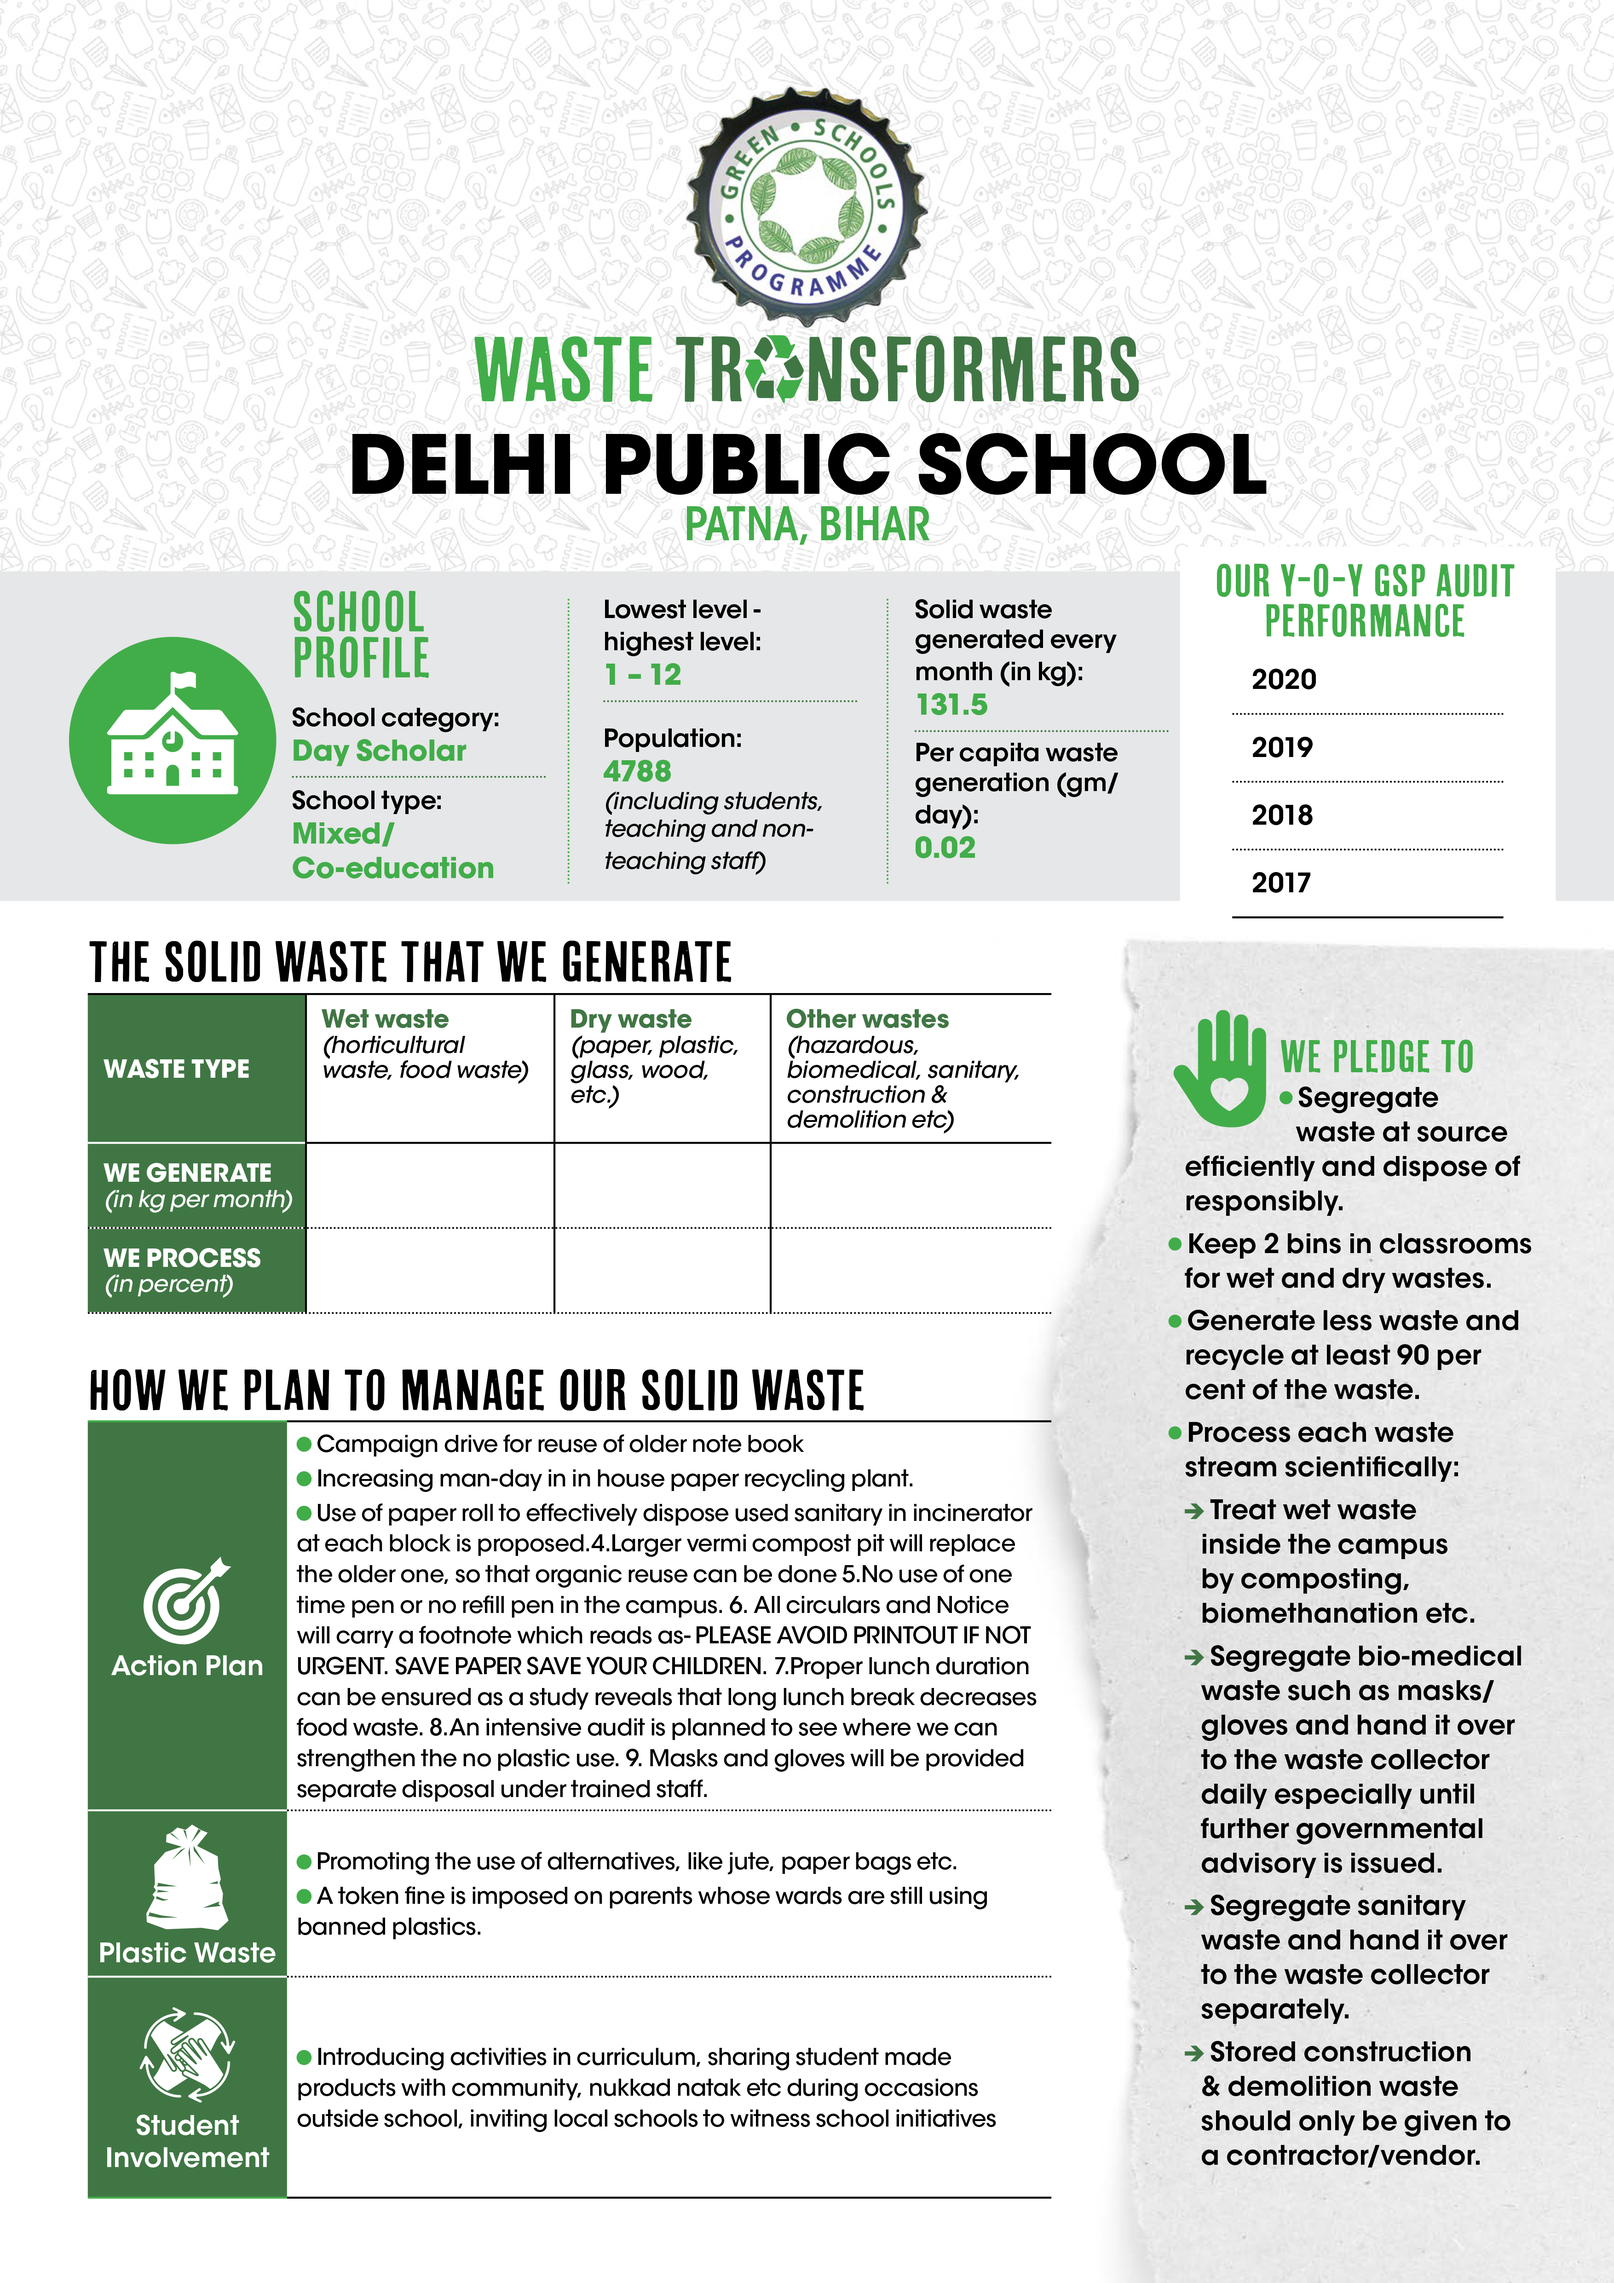
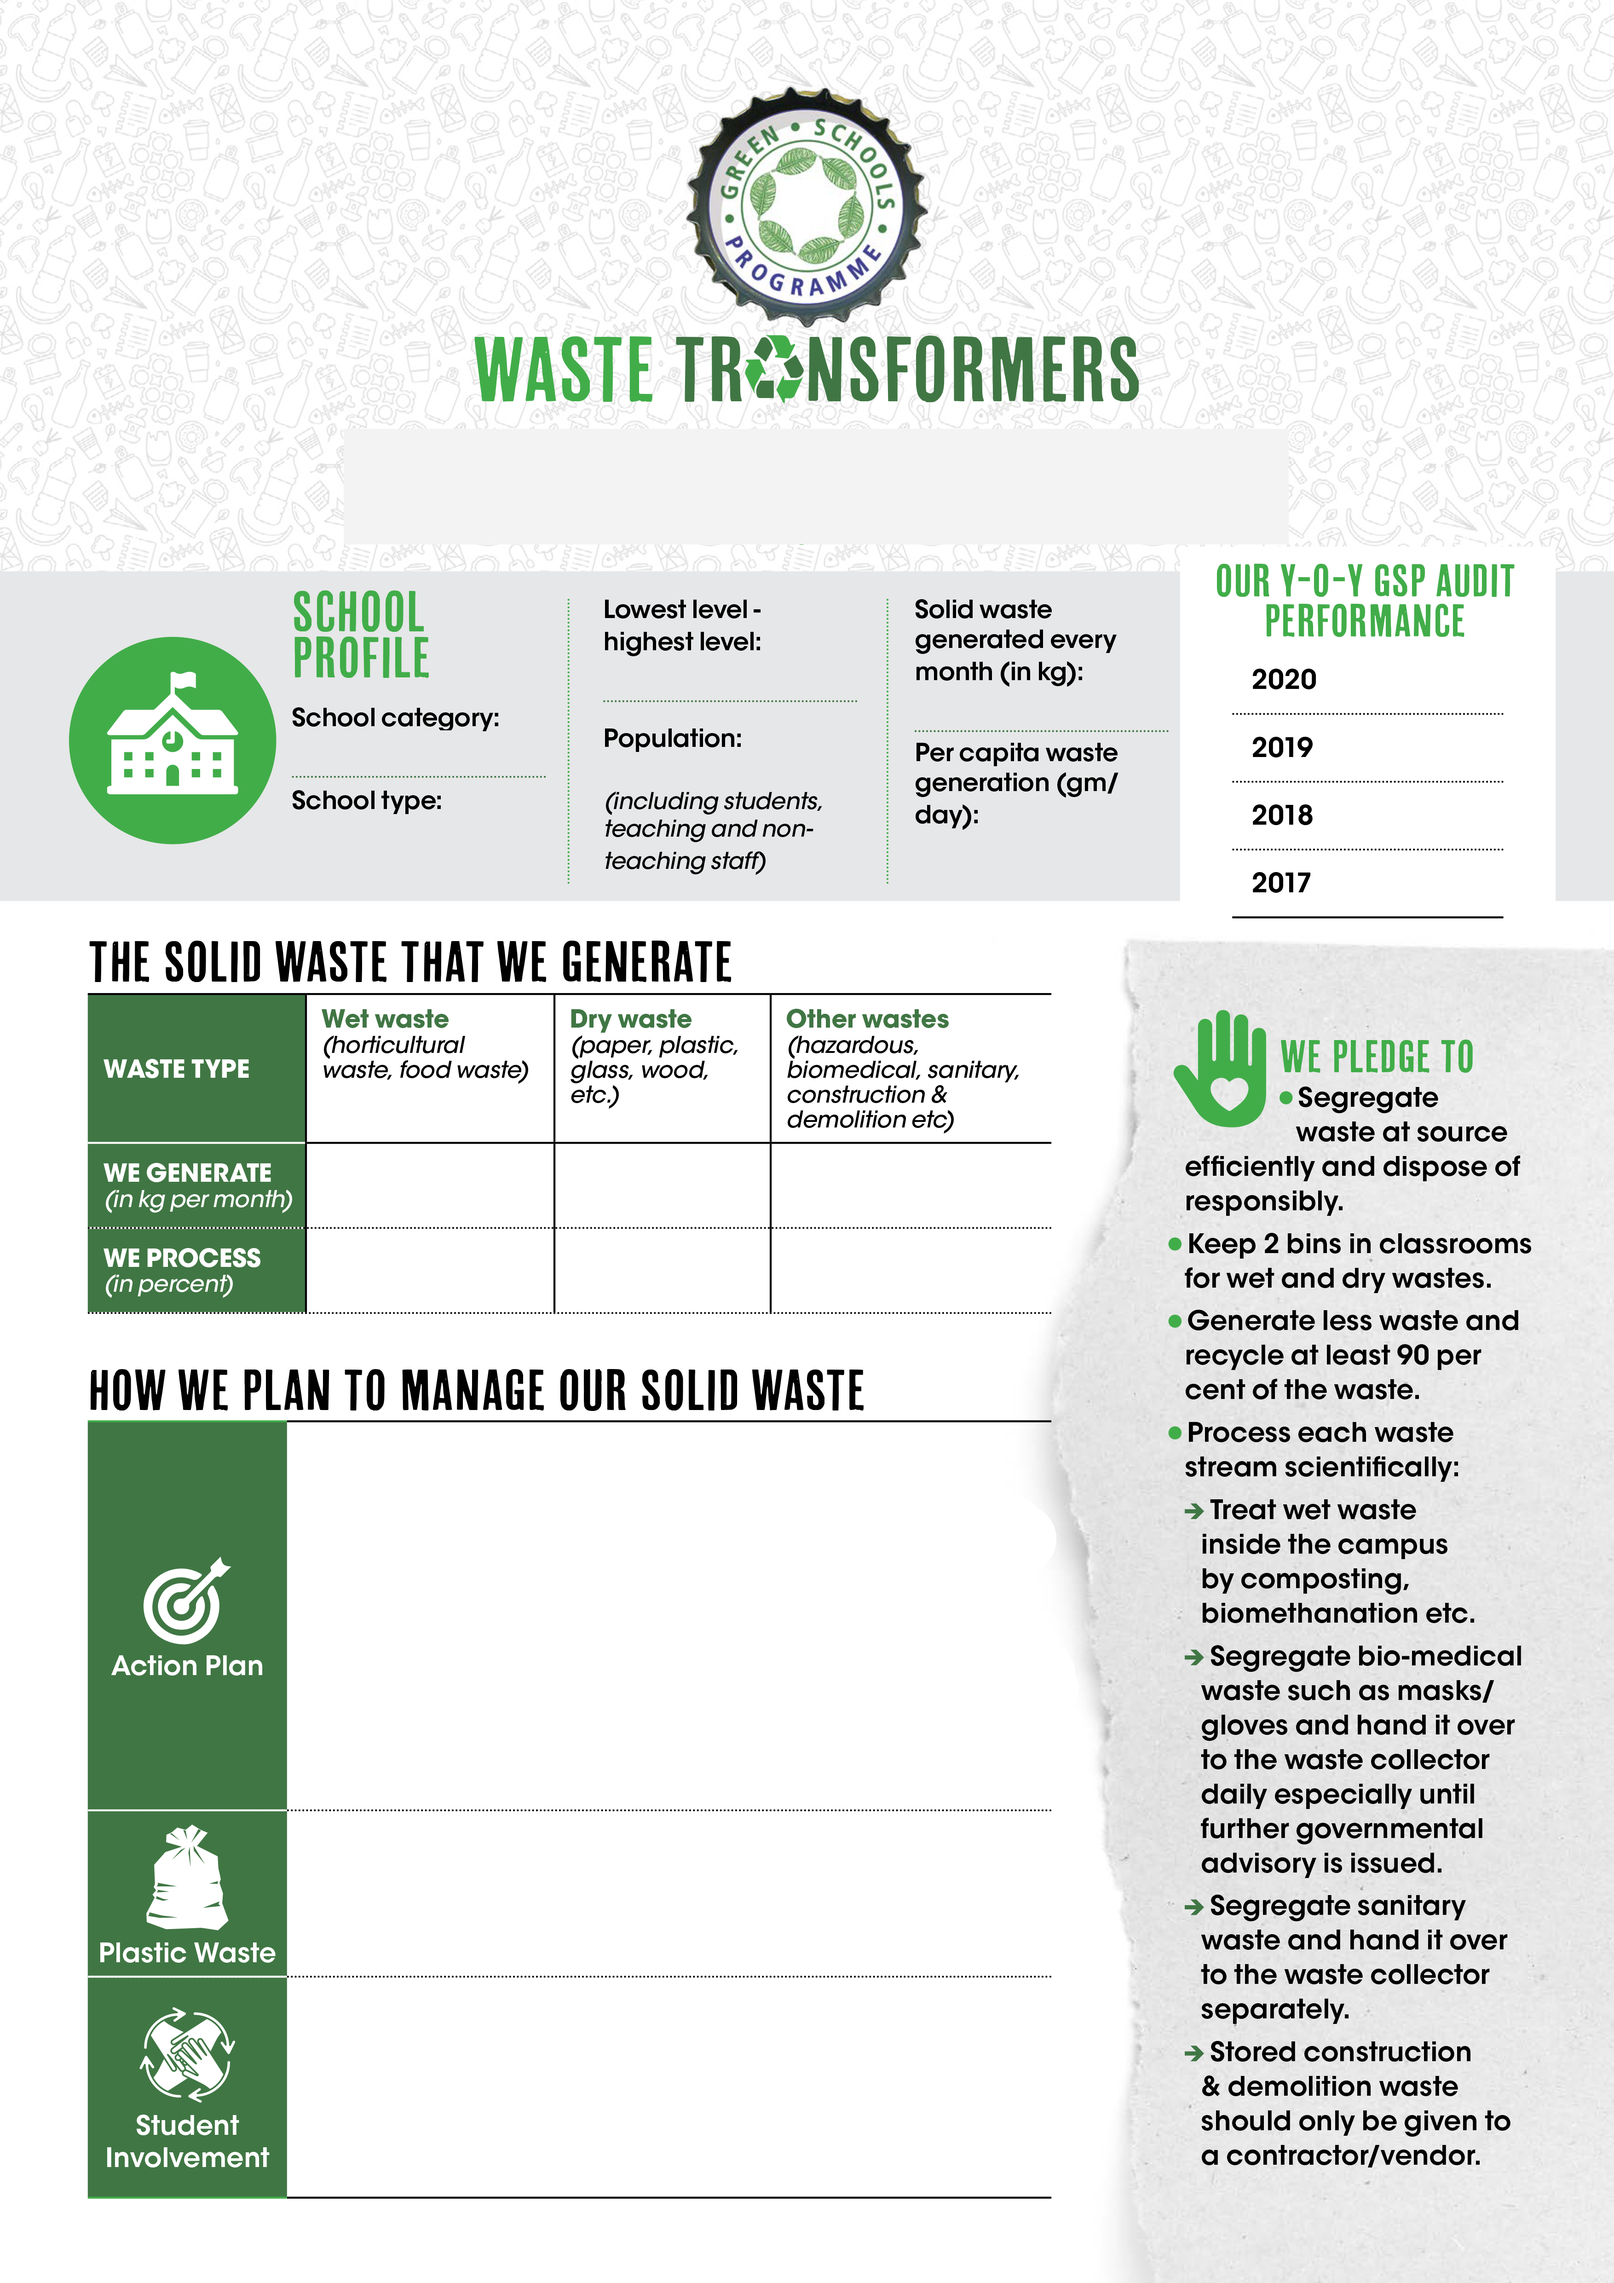
df

diff --git a/20/application/views/digital-poster.php b/20/application/views/digital-poster.php
@@ -1,0 +1,101 @@
+<!DOCTYPE html>
+<html>
+<head>
+<meta http-equiv="Content-Type" content="text/html; charset=UTF-8">
+  <title><?php echo $title; ?></title>
+    </head>
+    <body>
+  <?php
+  if (!empty($title)) {
+    $i=0;
+    foreach($teachers as $teacher) {
+
+    if ($teacher->school !="") {
+        echo "<div class='container'>
+        <div class='image'><img src='assets/img/images/poster.png' width='500' height='707'></div>";
+
+    echo "<div class='sc_name'>" . strtoupper($teacher->school) ."</div>&nbsp;";
+    echo "<div class='sc_state'>" . strtoupper($teacher->district) .",". strtoupper($teacher->state) ."</div>&nbsp;";
+    echo "<div class='sc_sc'>" . strtoupper($teacher->sc) ."</div>&nbsp;";
+    echo "<div class='sc_st'>" . strtoupper($teacher->st) ."</div>&nbsp;";
+    echo "<div class='sc_ll_hl'>" . strtoupper($teacher->ll) ." - ". strtoupper($teacher->hl) ."</div>&nbsp;";
+    echo "<div class='sc_p'>" . strtoupper($teacher->tp) ."</div>&nbsp;";
+    echo "<div class='sc_sw'>" . strtoupper($teacher->tswg) ."</div>&nbsp;";
+    echo "<div class='sc_pcwg'>" . strtoupper($teacher->pc) ."</div>&nbsp;";
+    echo "<div class='sc_tbwg'>" . strtoupper($teacher->tbwg) ."</div>&nbsp;";
+    echo "<div class='sc_pww'>" . strtoupper($teacher->pww) ."</div>&nbsp;";
+    echo "<div class='sc_tdwg'>" . strtoupper($teacher->tdwg) ."</div>&nbsp;";
+    echo "<div class='sc_pdw'>" . strtoupper($teacher->pdw) ."</div>&nbsp;";
+    echo "<div class='sc_towg'>" . strtoupper($teacher->towg) ."</div>&nbsp;";
+    echo "<div class='sc_pow'>" . strtoupper($teacher->pow) ."</div>&nbsp;";
+    echo "<div class='sc_ap'><p>" . html_entity_decode($teacher->ap) ."</p></div>&nbsp;";
+    echo "<div class='sc_pw'><p>" . html_entity_decode($teacher->pw) ."</p></div>&nbsp;";
+    echo "<div class='sc_si'><p>" . html_entity_decode($teacher->si) ."</p></div>&nbsp;";
+
+
+  echo "<div class='principal'>" . strtoupper($teacher->school_name) ."</div>&nbsp;";
+    $length = strlen($teacher->school_name);
+  if($length > 61) {
+  echo  "<div class='school_name1'>". strtoupper($teacher->name_of_participant)."</div>";
+  
+  }else{
+    echo "<div class='school_name'>". strtoupper($teacher->name_of_participant). "</div>";
+     
+  }  echo "<div class='date'>"  . strtoupper($teacher->state). "</div> ";
+  //       echo "<div class='certificateno'>Certificate No : "."GSP".$teacher->school." </div>
+  //  </div> ";
+    }
+    }
+}
+
+  ?>
+
+    </body>
+</html>
+
+
+<style type="text/css">
+          @font-face {
+  font-family: myFirstFont;
+  src: url(18/assets/scriptina/mtcorsva.ttf);
+}
+
+body{
+  font-family: mtcorsva; font-size: 20px;
+} 
+
+
+.sc_sc{position:absolute;text-align:center;top:208px; margin-left: 50px;font-size: 9px;color:#41ad49;}
+.sc_st{position:absolute;text-align:center;top:233px; margin-left: 50px;font-size: 9px;color:#41ad49;}
+.sc_ll_hl{position:absolute;text-align:center;top:183px; margin-left: 147px;font-size: 10px;color:#41ad49;}
+.sc_p{position:absolute;text-align:center;top:212px; margin-left: 147px;font-size: 10px;color:#41ad49;}
+.sc_sw{position:absolute;text-align:center;top:192px; margin-left: 243px;font-size: 9px;color:#41ad49;}
+.sc_pcwg{position:absolute;text-align:center;top:237px; margin-left: 243px;font-size: 9px;color:#41ad49;}
+.sc_name{position:absolute;text-align:center;top:110px; margin-left: 0px;font-weight:bold;width:100%;}
+.sc_state{position:absolute;text-align:center;top:135px; margin-left: 0px;font-size: 12px;color:#41ad49;width:100%;}
+.sc_tbwg{position:absolute;text-align:center;top:342px; margin-left: 83px;font-size: 9px;color:#41ad49;}
+.sc_pww{position:absolute;text-align:center;top:367px; margin-left: 83px;font-size: 9px;color:#41ad49;}
+.sc_tdwg{position:absolute;text-align:center;top:342px; margin-left: 150px;font-size: 9px;color:#41ad49;}
+.sc_pdw{position:absolute;text-align:center;top:367px; margin-left: 150px;font-size: 9px;color:#41ad49;}
+.sc_towg{position:absolute;text-align:center;top:342px; margin-left: 220px;font-size: 9px;color:#41ad49;}
+.sc_pow{position:absolute;text-align:center;top:367px; margin-left: 220px;font-size: 9px;color:#41ad49;}
+.sc_ap{position:absolute;text-align:left;top:423px; margin-left: 22px;width:270px;height:115px;font-size: 9px;}
+.sc_pw{position:absolute;text-align:left;top:543px; margin-left: 22px;width:270px;height:55px;font-size: 9px;}
+.sc_si{position:absolute;text-align:left;top:597px; margin-left: 22px;width:270px;height:55px;font-size: 9px;}
+
+
+
+
+
+
+.date{position:absolute; text-align: center; top:510px; margin-left: 480px;}
+.certificateno{ position:absolute; top:680px; left: 10px;}
+.principal{ position:relative; text-align: center; top:260px;}
+.school_name1{ position:relative; text-align: center; top:250px; font-size: 20px; margin-left: 25px;}
+.school_name{ position:relative; text-align: center; top:250px; margin-left: 25px;}
+.image{position:absolute; margin-left: -40px; margin-top: -20px;}
+</style>
+
+<style type="text/css">   
+    .page{ text-align:right; page-break-after:always;}
+</style> 

diff --git a/20/application/controllers/GetCertificate.php b/20/application/controllers/GetCertificate.php
@@ -9,7 +9,9 @@ class GetCertificate extends CI_Controller{
     public function __construct() {
         parent::__construct();
         $this->load->helper(array('form', 'security'));
-        $this->load->library('form_validation');        
+        $this->load->library('form_validation');   
+        $this->load->helper(array('download', 'common_helper', 'form'));
+     
     }
     
     /*
@@ -55,40 +57,44 @@ class GetCertificate extends CI_Controller{
     }
 
 
-    public function getPoster($argID){
-        ini_set('memory_limit', '-1');      
-        ini_set('max_execution_time', 300);   
+    public function getPoster($argsID){
+        // ini_set('memory_limit', '-1');      
+        // ini_set('max_execution_time', 300);   
            $data['title'] = 'Home';
-           $data['id'] = $argID;
-        $schoolId=getSchoolId($this->session->userdata('USER_ID'));
-        $phase2 = $this->db->select('schoolno')->from('poster')->where('schoolno',$schoolId)->get()->result();
+        //    $data['id'] = $argID;
+        // $schoolId=getSchoolId($this->session->userdata('USER_ID'));
+        $mobile=42;
+        $this->db->where("schoolno",$mobile);
+        $phase2=$this->db->select("*")->from("poster")->get()->result();
         
-        print_r($phase2);
-        
-        // $this->session->set_flashdata('data_name', 'The link to download the GSP Online Air Seminar April 2020 certificate is now closed.');
-        //     return redirect('GetCertificate');
 
-        if(!empty($dataCertificate)){
 
-        $data['teachers'] = $dataCertificate;
+        if(!empty($phase2)){
 
-        $data['title']="GSP Digital Certificates";
+        $data['teachers'] = $phase2;
+        // echo'<pre>';
+        // print_r($phase2);
+
+
+        $data['title']="GSP Poster";
         $this->load->library('dompdf_lib');
         ini_set('memory_limit', '-1');
        
-        $html = $this->load->view('digital-certificate-new', $data, true);
+        $html = $this->load->view('digital-poster', $data, true);
          $html = preg_replace('/>\s+</', "><", $html);
-
+       
         $this->dompdf->load_html($html);
         $this->dompdf->set_paper(array(0, 0, 380, 560), 'portrait');
         $this->dompdf->render();
         $this->dompdf->stream("Digital Certificate.pdf", array("Attachment" => false));
-		$this->db->where('id', $dataCertificate[0]->id);
-        $this->db->update('gsp_skill_building_camp', array('download_count'=>$dataCertificate[0]->download_count+1));
+		// $this->db->where('id', $dataCertificate[0]->id);
+        // $this->db->update('gsp_skill_building_camp', array('download_count'=>$dataCertificate[0]->download_count+1));
         }
         else{
             $this->session->set_flashdata('data_name', 'Your password is incorrect. Please try again. For any assistance, write to us at : support@greenschoolprogramme.org');
             return redirect('GetCertificate');
+
+            
         }
 
     }

diff --git a/20/application/views/digital-certificate-new.php b/20/application/views/digital-certificate-new.php
@@ -12,7 +12,7 @@
 
     if ($teacher->name_of_participant !="") {
         echo "<div class='container'>
-        <div class='image'><img src='assets/img/images/poster.png' width='500' height='707'></div>";
+        <div class='image'><img src='assets/img/images/Mandi_HP workshop_certificate-Mar 3-5.jpg' width='1000' height='700'></div>";
 
   echo "<div class='principal'>" . strtoupper($teacher->school_name) ."</div>&nbsp;";
     $length = strlen($teacher->school_name);
@@ -23,8 +23,8 @@
     echo "<div class='school_name'>". strtoupper($teacher->name_of_participant). "</div>";
      
   }  echo "<div class='date'>"  . strtoupper($teacher->date). "</div> ";
-  //       echo "<div class='certificateno'>Certificate No : "."GSP- HIMCOSTE Online Capacity Building Workshop MANDI/2021/0".$teacher->id." </div>
-  //  </div> ";
+        echo "<div class='certificateno'>Certificate No : "."GSP- HIMCOSTE Online Capacity Building Workshop MANDI/2021/0".$teacher->id." </div>
+   </div> ";
     }
     }
   }

diff --git a/20/application/config/database.php b/20/application/config/database.php
@@ -76,8 +76,8 @@ $query_builder = TRUE;
 $db['default'] = array(
 	'dsn'	=> '',
 	'hostname' => 'localhost',
-	'username' => 'gsp2018_usr',        //gsp2018_usr
-	'password' => 'studio@123',        //studio@123
+	'username' => 'root',        //gsp2018_usr
+	'password' => '',        //studio@123
 //    'username' => 'animesh',
 //    'password' => 'user',
 	'database' => 'GSP_2020',
